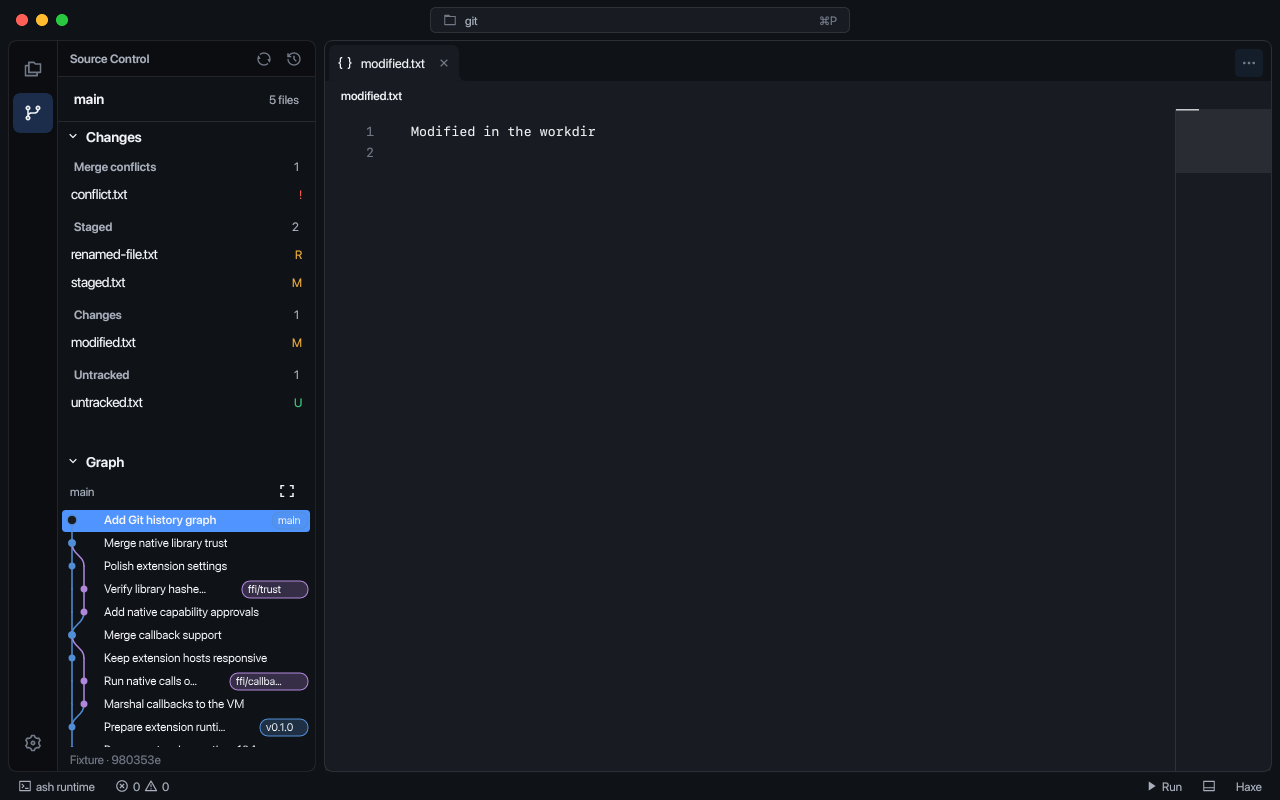
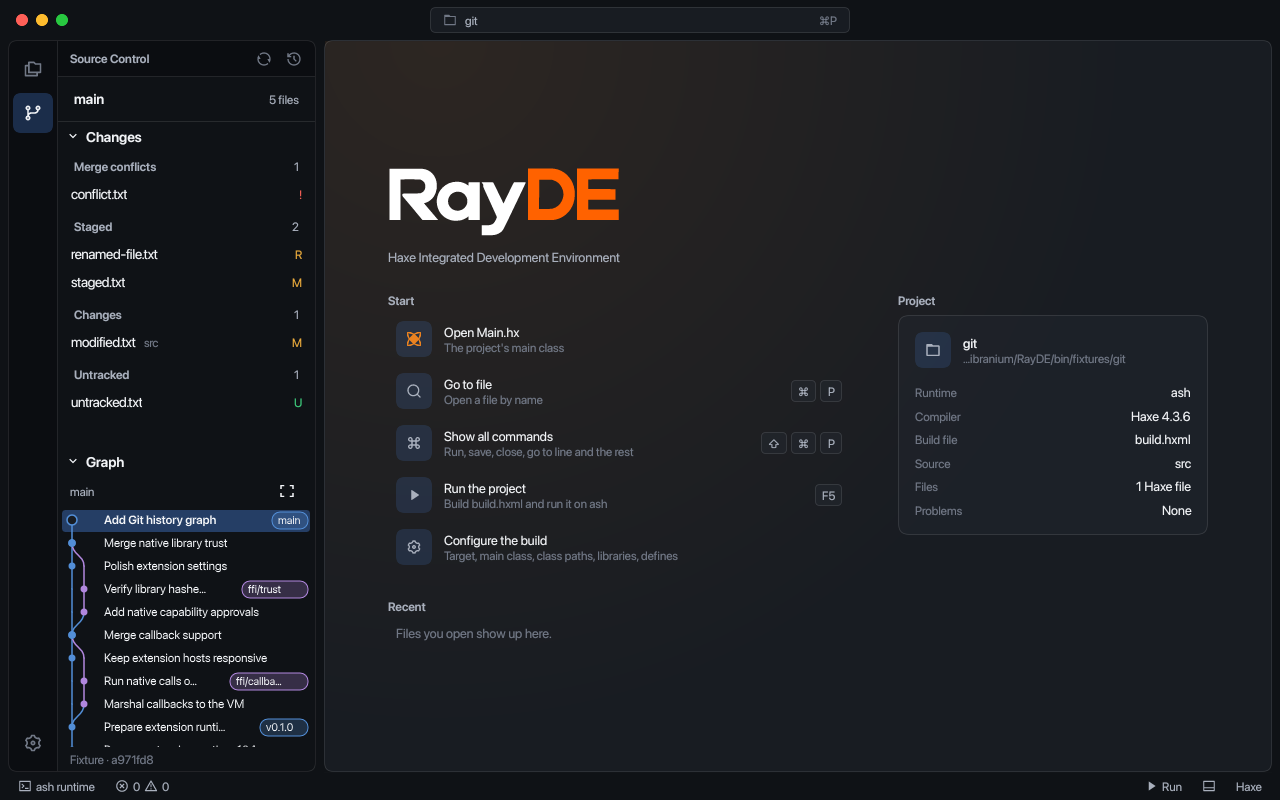
Scroll Git graphs and preserve selection colors
Show SCM filenames before their parent directories.

git-bug: c086fdf05532def38cfb05c8e969c46652f12b6d77e87ce8c2f0a94aa24fe81c

diff --git a/tests/git_fixture.py b/tests/git_fixture.py
@@ -31,7 +31,8 @@ def create(root):
     git("config", "core.hooksPath", str(root / ".git/no-hooks"))
     (root / ".gitignore").write_text(".rayde/\nsnapshot-home/\nmain.hl\n")
     git("add", ".gitignore")
-    for filename in ["clean.txt", "modified.txt", "staged.txt", "renamed.txt", "conflict.txt"]:
+    for filename in ["clean.txt", "src/modified.txt", "staged.txt", "renamed.txt", "conflict.txt"]:
+        (root / filename).parent.mkdir(parents=True, exist_ok=True)
         (root / filename).write_text("Before\n")
         git("add", filename)
     for filename in ["build.hxml", "src"]:
@@ -54,7 +55,7 @@ def create(root):
     git("merge", "--no-ff", "ffi/trust", "-m", "Merge native library trust")
     commit("Add Git history graph")
     if "--install" in sys.argv:
-        (root / "modified.txt").write_text("Modified in the workdir\n")
+        (root / "src/modified.txt").write_text("Modified in the workdir\n")
         (root / "staged.txt").write_text("Staged change\n")
         git("add", "staged.txt")
         git("mv", "renamed.txt", "renamed-file.txt")

diff --git a/docs/git.md b/docs/git.md
@@ -1,6 +1,6 @@
 # Git
 
-The built-in Git extension registers Ashui's git-branch icon in the activity bar. Selecting it opens **Source Control** in the sidebar, with the current branch, file counts and groups for merge conflicts, staged changes, workdir changes and untracked files. Selecting a file opens it in the editor.
+The built-in Git extension registers Ashui's git-branch icon in the activity bar. Selecting it opens **Source Control** in the sidebar, with the current branch, file counts and groups for merge conflicts, staged changes, workdir changes and untracked files. File rows show the filename first, followed by its parent directory in muted text.
 
 ![Source Control in the sidebar](images/git-scm.png)
 
@@ -10,7 +10,7 @@ The sidebar's **Refresh** action and **Git: Refresh** command reload status and 
 
 ![Git history and selected merge commit](images/git-history.png)
 
-The wheel zooms at the pointer; drag empty space or use the middle/right button to pan. **Fit** includes all loaded rows. **Load more** appends 100 commits at a time, preserving earlier lane positions. The reference picker includes local branches, remote references and tags. **Refresh** reopens the history cursor and reloads the first page. Closing the tab releases native resources.
+Both graphs scroll at a fixed scale with the wheel, trackpad or scrollbars. Dragging does not pan the graph and the wheel does not zoom. **Load more** appends 100 commits at a time, preserving earlier lane positions. The reference picker includes local branches, remote references and tags. **Refresh** reopens the history cursor and reloads the first page. Closing the tab releases native resources.
 
 The extension owns the graph layout and scene in RayScript. RayDE's generic [Ashui bridge](extensions.md#ashui-controls-and-interactive-drawing) renders retained CanvasKit paths, circles and text, with native Button and Select components. Painting and viewport gestures stay in the editor. Repository scanning and history reads run on libgit2's worker lane.
 
